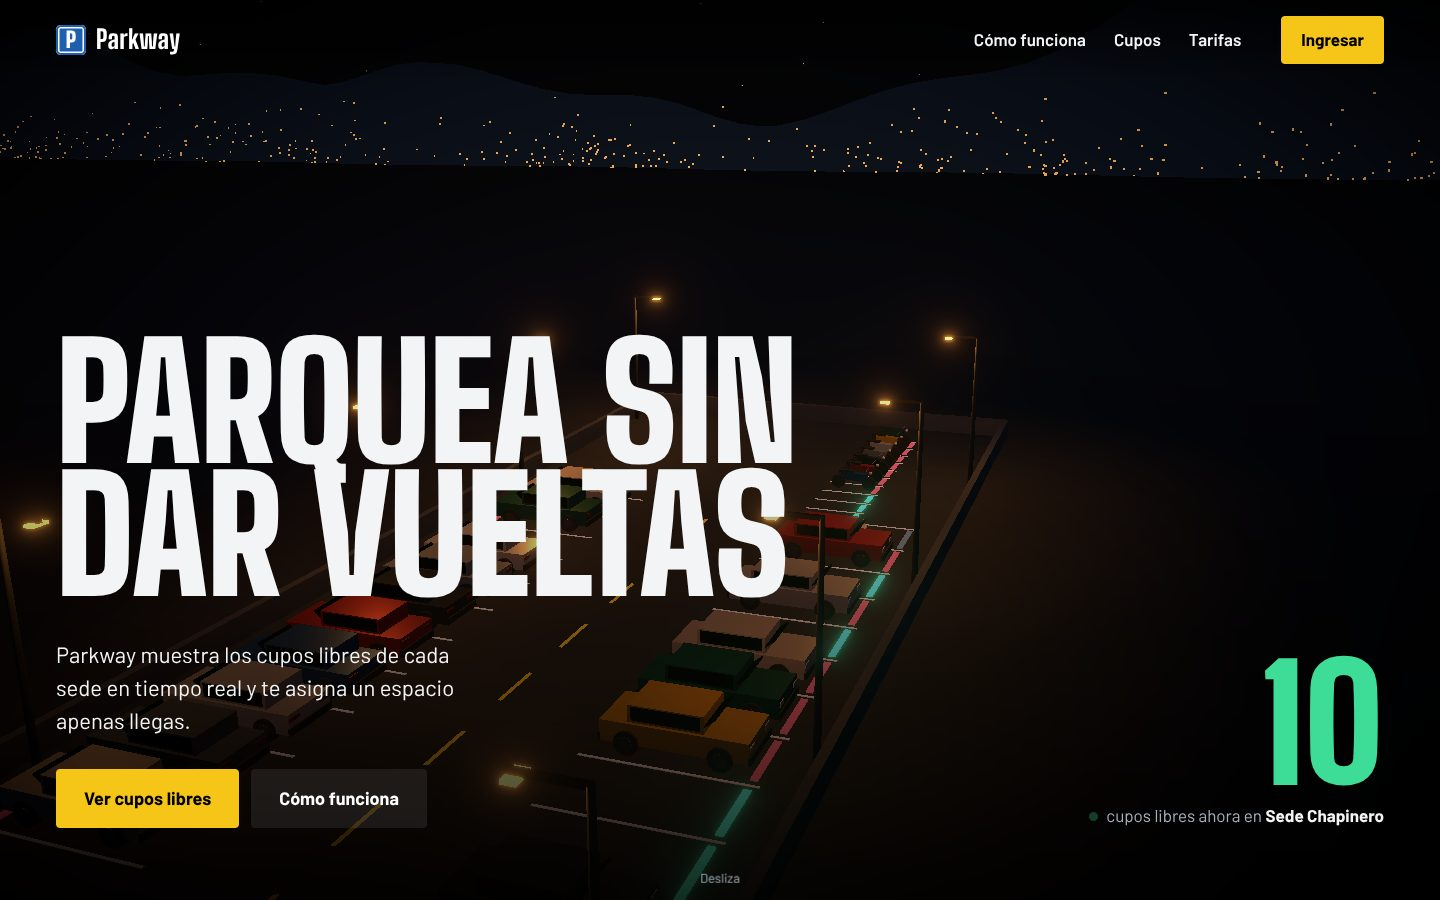
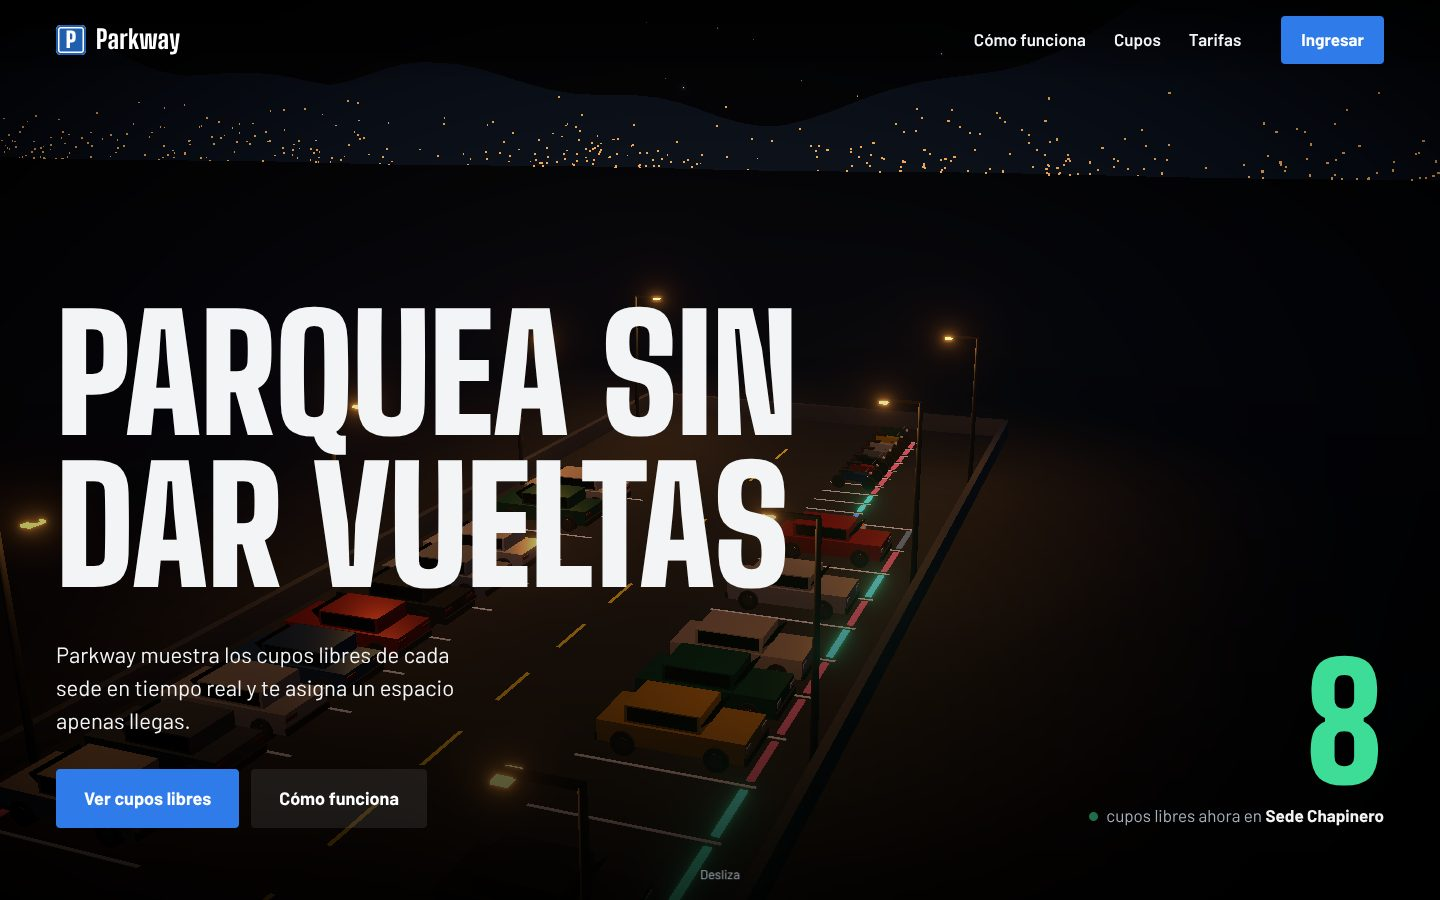
Actualiza README y capturas

diff --git a/README.md b/README.md
@@ -34,12 +34,28 @@ registra una salida, el carro sale por el carril.
 
 **Panel del personal**
 
+Pestañas del operador: Disponibilidad, Registrar ingreso, En el
+parqueadero, Reservas e Historial. El administrador además ve la Bitácora.
+
 - Plano 3D interactivo: se gira con el mouse y, al pasar sobre una plaza,
   muestra su código y la placa. Un clic sobre un vehículo abre el registro de
   su salida.
 - Campo de placa con forma de placa amarilla de Bogotá y validación por tipo.
 - Tiquete de papel que se "imprime" al registrar un ingreso o una salida.
 - Vista "Plano" en 2D para equipos sin aceleración gráfica.
+- **Reservas:** los clientes que van en camino, con su teléfono, el espacio
+  apartado y el tiempo que les queda para llegar; también las reservas del
+  día que llegaron, se cancelaron o expiraron. El botón "Registrar ingreso"
+  abre el formulario con la placa y el tipo ya escritos.
+- Al digitar una placa con reserva, el formulario de ingreso avisa a quién
+  pertenece y a qué espacio entrará.
+- **Bitácora (administrador):** todas las operaciones con su usuario,
+  resultado y detalle, filtrables por operación, resultado y fechas.
+- Las bicicletas se registran sin marca, solo con su código y color.
+
+El acento de la interfaz es el azul de la señal de parqueadero del logo. El
+amarillo se usa solo para las placas. En el plano, verde es libre, rojo
+ocupado y azul reservado.
 
 Las fuentes (Big Shoulders Display y Barlow) se incluyen en el proyecto, así
 que la interfaz funciona sin conexión a internet. Con `prefers-reduced-motion`
@@ -56,7 +72,8 @@ activo se desactivan las animaciones automáticas.
 | Plano 3D de la sede con el estado real de cada plaza | RF05 | Implementado |
 | Salida desde el plano 3D (clic sobre el vehículo) | RF07 | Implementado |
 | Mapa de plazas, vehículos activos e historial de salidas | RF05, RF13 | Implementado |
-| Bitácora de transacciones (confirmadas y revertidas) | RF14, RNF08 | Implementado en el backend |
+| Bitácora de transacciones con consulta para el administrador | RF14, RNF08 | Implementado |
+| Reservas de la sede para el operador, con ingreso en un clic | RF10 | Implementado |
 | Actualización de disponibilidad sin recargar la página | RF12 | Consulta cada 5 s. WebSocket en la siguiente fase |
 | Creación de cuenta de cliente | RF01 | Implementado |
 | Vehículos del cliente: registrar, consultar y quitar | RF04 | Implementado |
@@ -202,7 +219,8 @@ Para ver el parqueadero con vehículos dentro (recomendado para presentar):
 psql -d parkway -f database/demo.sql
 ```
 
-`demo.sql` ocupa cerca del 60 % de los espacios y registra salidas del día.
+`demo.sql` ocupa cerca del 60 % de los espacios, registra salidas del día,
+crea dos reservas activas (ABC123 y XYZ78D) y llena la bitácora.
 Se puede ejecutar varias veces.
 
 `seed.sql` usa la extensión `pgcrypto` (la crea `schema.sql`) para guardar
@@ -240,7 +258,8 @@ portada queda en `http://localhost:5173/#/` y el panel en `#/ingresar`.
 
 El operador y el administrador registran ingresos y salidas. El cliente
 reserva espacios, registra sus vehículos y consulta su historial;
-`cliente1@parkway.test` ya tiene el vehículo ABC123. También se puede crear
+`cliente1@parkway.test` tiene el carro ABC123 y `cliente2@parkway.test`
+(Cliente123*) la moto XYZ78D. También se puede crear
 un cliente nuevo desde "Crea una para reservar".
 
 ## Pruebas
@@ -272,6 +291,8 @@ rechazados con código 409 y ningún espacio duplicado (RNF03).
 | GET | `/api/estacionamiento/activos?idParqueadero=1&placa=ABC` | Personal | Vehículos dentro y valor acumulado |
 | GET | `/api/estacionamiento/historial?idParqueadero=1&desde=2026-10-01&hasta=2026-10-31` | Personal | Salidas registradas |
 | GET | `/api/estacionamiento/totales-dia?idParqueadero=1` | Personal | Ingresos, salidas y valor del día |
+| GET | `/api/estacionamiento/reservas?idParqueadero=1` | Personal | Reservas activas y del día, con el cliente |
+| GET | `/api/admin/bitacora?tipo=INGRESO&estado=REVERTIDA&desde=…&hasta=…` | Administrador | Bitácora de transacciones |
 | POST | `/api/estacionamiento/ingreso` | Personal | Registra un ingreso |
 | POST | `/api/estacionamiento/salida/:idRegistro` | Personal | Registra una salida |
 | GET | `/api/cliente/estado` | Cliente | Reserva activa y vehículos dentro con valor acumulado |
@@ -309,7 +330,11 @@ una regla de negocio lo impide, por ejemplo cuando no hay espacios libres.
 | **Salida registrada** | **Historial** |
 | ![Salida](docs/capturas/12_salida.jpg) | ![Historial](docs/capturas/13_historial.jpg) |
 
-| **Reserva del cliente** | **El operador digita la placa reservada** |
+| **Reservas para el operador** | **Aviso de reserva al digitar la placa** |
+| ![Reservas](docs/capturas/20_operador_reservas.jpg) | ![Aviso de reserva](docs/capturas/21_ingreso_con_reserva.jpg) |
+| **Bitácora del administrador** | **Acceso del personal** |
+| ![Bitácora](docs/capturas/22_bitacora.jpg) | ![Cierre](docs/capturas/23_cierre.jpg) |
+| **Reserva del cliente** | **Ingreso con reserva** |
 | ![Reserva](docs/capturas/15_cliente_reserva.jpg) | ![Ingreso con reserva](docs/capturas/16_operador_con_reserva.jpg) |
 | **El cliente ve su vehículo dentro** | **Mis vehículos** |
 | ![Vehículo dentro](docs/capturas/17_cliente_dentro.jpg) | ![Mis vehículos](docs/capturas/18_cliente_vehiculos.jpg) |
